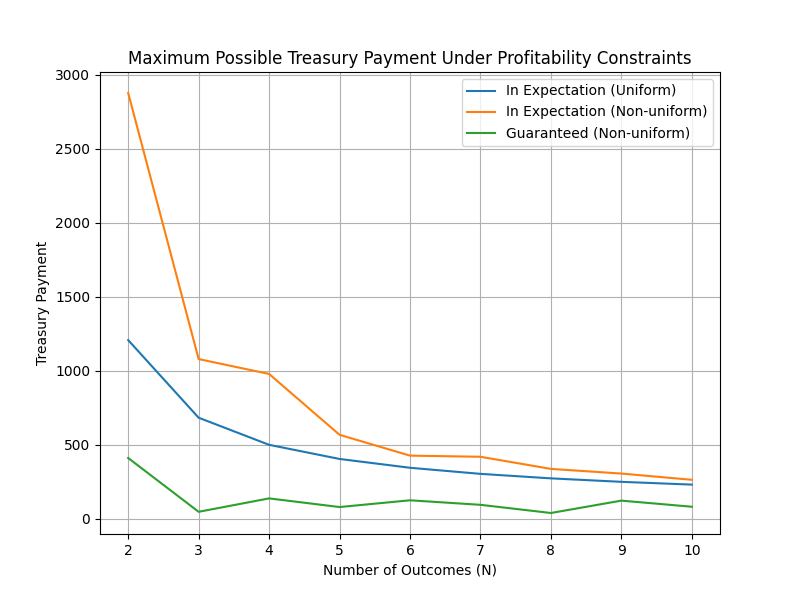
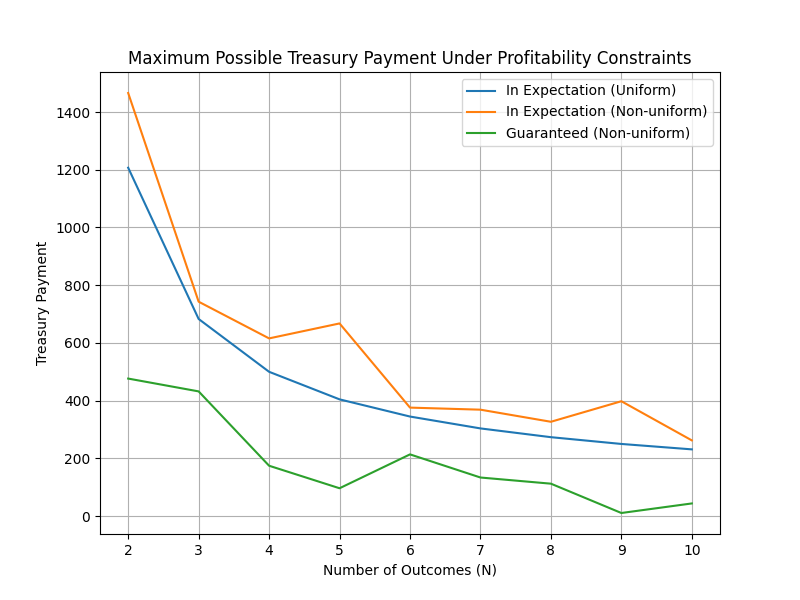
fixed using random seed for reproducibility

diff --git a/treasury_payment.py b/treasury_payment.py
@@ -90,12 +90,10 @@ def test_non_uniform_dist(n=2, B=1_000):
     """
     p_array = np.random.rand(n)
     p_array = p_array / np.sum(p_array)
-    q_array = np.random.rand(n)
-    q_array = q_array / np.sum(q_array)
 
     print(f"{n}-outcomes distribution: {p_array}")
     print(f"exp: {get_expected_treasury_payment(B, p_array)}")
-    print(f"min: {get_guaranteed_treasury_payment(B, q_array)}")
+    print(f"min: {get_guaranteed_treasury_payment(B, p_array)}")
 
 
 def plot_treasury_payment(max_N=10, B=1000):
@@ -112,18 +110,15 @@ def plot_treasury_payment(max_N=10, B=1000):
     guaranteed_payment_nonuniform = []
 
     for n in N:
+        # generate uniform probability distribution
         p_array = [1 / n for _ in range(n)]
 
-        expected_payment_uniform.append(get_expected_treasury_payment(B, p_array))
-
-    for n in N:
         # generate random probability distribution
-        p_array = np.random.rand(n)
-        p_array = p_array / np.sum(p_array)
         q_array = np.random.rand(n)
         q_array = q_array / np.sum(q_array)
 
-        expected_payment_nonuniform.append(get_expected_treasury_payment(B, p_array))
+        expected_payment_uniform.append(get_expected_treasury_payment(B, p_array))
+        expected_payment_nonuniform.append(get_expected_treasury_payment(B, q_array))
         guaranteed_payment_nonuniform.append(
             get_guaranteed_treasury_payment(B, q_array)
         )
@@ -145,15 +140,5 @@ def plot_treasury_payment(max_N=10, B=1000):
 if __name__ == "__main__":
     np.random.seed(1337)
     print("seed: 1337")
-
-    print("Test with uniform distribution")
-    for i in range(2, 11):
-        test_uniform_dist(i)
-
-    print("-" * 20)
-
-    print("Test with non-uniform distribution")
-    for i in range(2, 11):
-        test_non_uniform_dist(i)
 
     plot_treasury_payment(10, 1000)
